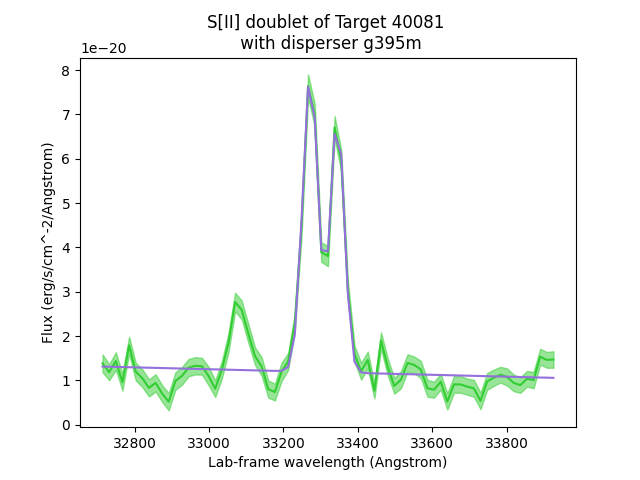
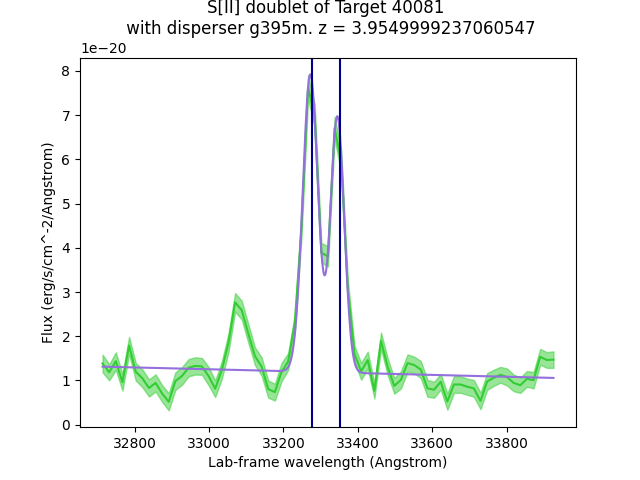
LineFitting update 04/10

diff --git a/Emission Line Fitting/line_fitting_primary.py b/Emission Line Fitting/line_fitting_primary.py
@@ -38,41 +38,67 @@ class LineFitting:
         return mask
 
     def spectrum_model(self, amp6716, amp6731, sigma, redshift):
-        #Fit a pair of Gaussians to the [SII] doublet and linear expression 
-        #to the continuum surrounding the doublet
+        """Create a theoretical model of the spectrum around the [SII] doublet as
+        a pair of Gaussians for the doublet and a linear function to model the 
+        continuum.""" 
         continuum = models.Polynomial1D(1)
         sii6716 = models.Gaussian1D(amplitude = amp6716, mean = 6716 * (1 + redshift), stddev = sigma)
         sii6731 = models.Gaussian1D(amplitude = amp6731, mean = 6731 * (1 + redshift), stddev = sigma) 
+        #Fix peaks in place in order to fix redshifts
+        #sii6716.mean.fixed = True
+        #sii6731.mean.fixed = True
         model = continuum + sii6716 + sii6731
         return model
 
     def model_fit(self):
+        """Use Astropy Least Squares fitter to fit the model to the data"""
         mask = self.sii_mask()
-        fit = fitting.LevMarLSQFitter()
-        #Best guess
+        fitter = fitting.LevMarLSQFitter(calc_uncertainties=True)
+        #Initial guess of fit parameters
         initial_guess = self.spectrum_model(1, 1, 20, self.redshift)
-        fitted_model = fit(initial_guess, self.wavelengths[mask], self.flux[mask], maxiter=1000)
-        return fitted_model
+        #Fit model to masked data
+        fit_to_model = fitter(initial_guess, self.wavelengths[mask], self.flux[mask], maxiter=1000)
+        print(fit_to_model.parameters)
+        """
+        fit_to_model.parameters is as follows:
+        index 0: continuum.c0  c0 = continuum intercept
+        index 1: continuum.c1  c1 = continuum slope
+        index 2: sii6716.amplitude
+        index 3: sii6716.mean
+        index 4: sii6716.stddev
+        index 5: sii6731.amplitude
+        index 6: sii6731.mean
+        index 7: sii6731.stddev
+        """
+        print((fit_to_model.parameters[3] / 6716) - 1)
+        print((fit_to_model.parameters[6] / 6731) - 1) #Fit's best estimate of redshifts
+        return fit_to_model
 
     def plot_fit(self):
         mask = self.sii_mask()
         #Plot empirical data
         plt.plot(self.wavelengths[mask], self.flux[mask], color = "limegreen")
+        #plt.errorbar(self.wavelengths[mask], self.flux[mask], yerr = self.flux_err[mask], color = "limegreen")
         plt.fill_between(self.wavelengths[mask], self.flux[mask] - self.flux_err[mask], 
                         self.flux[mask] + self.flux_err[mask], alpha=0.5, color = "limegreen") 
         
         #Plot fitted data
         fitted_model = self.model_fit()
-        fitted_data = fitted_model(self.wavelengths[mask])
-        plt.plot(self.wavelengths[mask], fitted_data, color = "mediumpurple")
+        #Expand wavelength data for less janky curve
+        x_data = np.linspace(np.min(self.wavelengths[mask]), np.max(self.wavelengths[mask]), 1000)   
+        fitted_data = fitted_model(x_data)
 
+        plt.plot(x_data, fitted_data, color = "mediumpurple")
+        plt.axvline(6716 * (1+self.redshift), color = "darkblue")
+        plt.axvline(6731 * (1+self.redshift), color = "darkblue")
         plt.xlabel(f"Lab-frame wavelength (Angstrom)")
         plt.ylabel(f"Flux (erg/s/cm^-2/Angstrom)")
-        plt.title(f"S[II] doublet of Target {self.target_id} \n with disperser {self.disperser}")
+        plt.title(f"S[II] doublet of Target {self.target_id} \n with disperser {self.disperser}. z = {self.redshift}")
         plt.savefig(f"Testfittedspectrum.png")
         plt.show()
 
         print(self.redshift)
+    
 
 l = LineFitting(r"C:\Users\drcla\OneDrive\MPhys Project\Emission Line Fitting\spec1d_fluxcal\spec1d_40081_g395m_final.txt")
 l.plot_fit()
